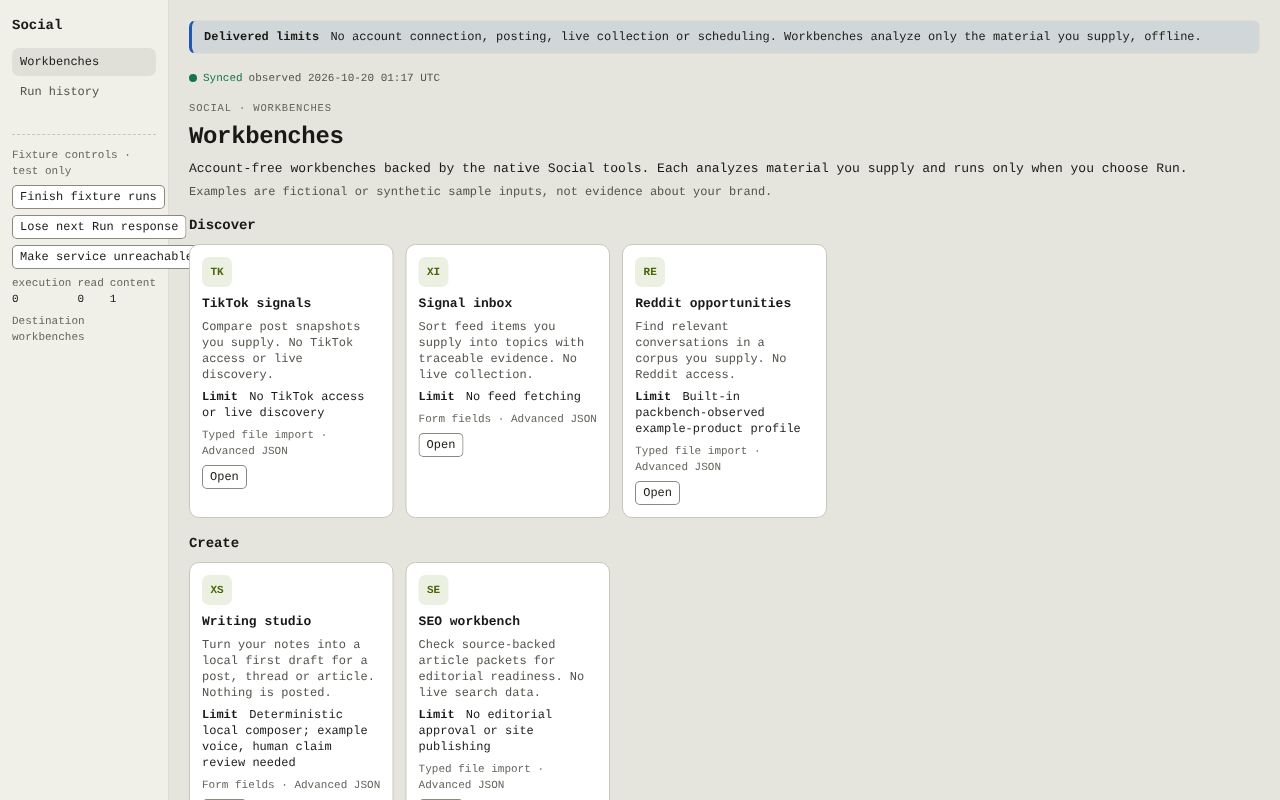
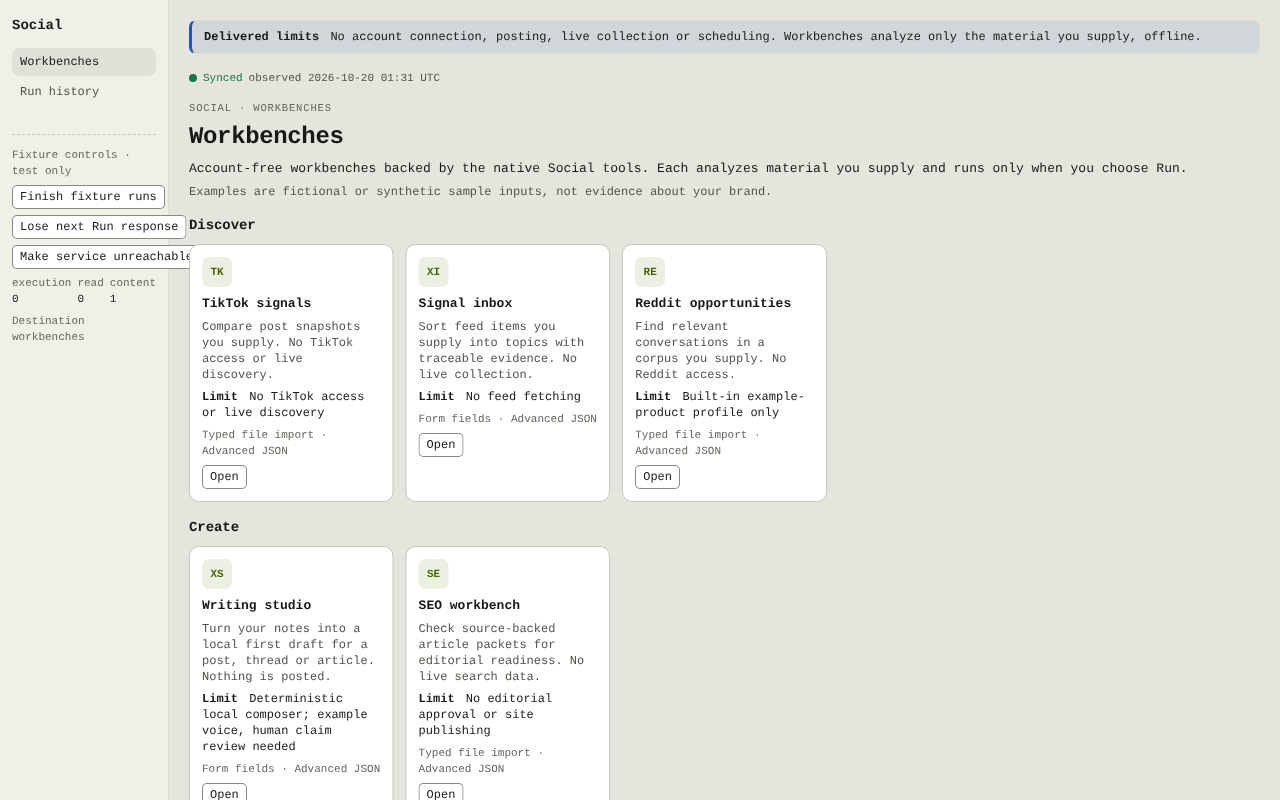
fix(social): public-safe Reddit profile wording; reconcile workbench evidence (SOC-W)
Replace the internal profile identifier with neutral wording that keeps
the limitation, re-capture the two affected catalog screenshots under the
same CSP, record root-accepted working decisions, correct the D2/D3
labels and record the SOC-C content dependency merge and fresh checks.

Task: spec.hq-social-work#task.social-workbench.001

Changed region(s): [[0.125, 0.5, 0.6562, 1.0], [0.5938, 0.4688, 0.625, 0.5]]

diff --git a/modules/social/workbench/fixtures/examples.ts b/modules/social/workbench/fixtures/examples.ts
@@ -80,7 +80,7 @@ export const WORKBENCH_OUTPUTS: { readonly [T in ToolId]: Record<string, unknown
   'tiktok-intelligence': { ok: true, result: { niche: 'Fictional tea rituals', as_of: '2026-10-01T12:00:00Z', posts: [{ post_id: 'fixture-post-1' }, { post_id: 'fixture-post-2' }], qualifications: ['Supplied snapshots only.'] } },
   'seo-studio': { ok: true, result: { ok: false, packets: [{ slug: 'steeping-guide', findings: ['Needs a second source.'] }] } },
   'search-visibility': { ok: true, result: { queries: 1, citations: [{ url: 'https://example.invalid/steeping', count: 1 }], coverage: 1 } },
-  'reddit-opportunities': { ok: true, result: { import: { posts: 1 }, analysis: { opportunities: [{ id: 'fixture-post-1', score: 0.7 }] }, profile: 'packbench-observed (built-in example product; rankings apply to that profile)' } },
+  'reddit-opportunities': { ok: true, result: { import: { posts: 1 }, analysis: { opportunities: [{ id: 'fixture-post-1', score: 0.7 }] }, profile: 'example-product (illustrative built-in profile; rankings apply to that profile)' } },
   'creator-relationships': {
     ok: true,
     result: {

diff --git a/modules/social/workbench/test/results.test.ts b/modules/social/workbench/test/results.test.ts
@@ -32,7 +32,7 @@ describe('tool-specific result summaries', () => {
 
     expect(summarizeRun(finished('x-intelligence', WORKBENCH_OUTPUTS['x-intelligence']))!.facts).toEqual([{ label: 'items', value: '2' }, { label: 'evidence', value: '2' }]);
     expect(summarizeRun(finished('seo-studio', WORKBENCH_OUTPUTS['seo-studio']))!.heading).toBe('Some article packets need attention');
-    expect(summarizeRun(finished('reddit-opportunities', WORKBENCH_OUTPUTS['reddit-opportunities']))!.notices[0]).toMatch(/packbench-observed/u);
+    expect(summarizeRun(finished('reddit-opportunities', WORKBENCH_OUTPUTS['reddit-opportunities']))!.notices[0]).toBe('example-product (illustrative built-in profile; rankings apply to that profile)');
   });
 
   it('maps Channel preview rule IDs to the delivered wording', () => {

diff --git a/modules/social/workbench/catalog.ts b/modules/social/workbench/catalog.ts
@@ -47,8 +47,8 @@ export const TOOL_GUIDES: { readonly [T in ToolId]: ToolGuide } = {
   },
   'reddit-opportunities': {
     id: 'reddit-opportunities', input: 'import',
-    recipe: 'Analyze an imported corpus', limit: 'Built-in packbench-observed example-product profile',
-    notices: ['Scores against the built-in packbench-observed example product profile. Custom product profiles exist only in the native tool.'],
+    recipe: 'Analyze an imported corpus', limit: 'Built-in example-product profile only',
+    notices: ['Scores against the built-in example product profile. Custom product profiles exist only in the native tool.'],
   },
   'creator-relationships': {
     id: 'creator-relationships', input: 'import', notices: [],

diff --git a/docs/evidence/hq-social-work/social-workbench/README.md b/docs/evidence/hq-social-work/social-workbench/README.md
@@ -9,7 +9,8 @@ Authority effect: none. This is the lane evidence for `spec.hq-social-work#ac.so
 | Branch | `work/hq-social-workbench`, an isolated linked worktree with one Git owner (this lane) |
 | Start | `83dafc50ef9e4e1b296baf2f1f9ad2d6b3115f04`: the accepted SOC-C core, head of `work/hq-social-content` |
 | UI dependency | The accepted UI kit `935dedf78e04a2697bdc02d85864546948ffcb8c` was merged as `d3fe415849bbf227a9c24c9fdc4b8db1ed748b35`, with no conflict, rebase or force. R1 `cfdab37` is an ancestor of both parents. |
-| PR base | `work/hq-social-content`, verified at publication as `5f5df2a7c3881091a6d038be32fdee5ab23ef5e2`. That is SOC-C's content commit on top of its own merge (`3bc79e1`) of the same UI commit `935dedf`. Both `83dafc5` and `935dedf` are ancestors of it. Since `83dafc5`, the base adds only `modules/social/content/**`, its evidence and the UI kit, so none of it touches `core`, this module, manifests or configuration. It was not merged here; that merge was not authorized. |
+| PR base | `work/hq-social-content` at `5f5df2a7c3881091a6d038be32fdee5ab23ef5e2`. That is SOC-C's content commit on top of its own merge (`3bc79e1`) of the same UI commit `935dedf`. |
+| Content dependency | At root's direction, the accepted SOC-C content commit `5f5df2a` was merged normally, once, as `17351d0f275d4fd940d349bb9a0b2e4c7fbf9ec4`. Its parents are `ae5e0e43441045d7061f76a27bc62b3ba9a587c9` (the first published candidate) and `5f5df2a`. The merge had no conflict and needed no manual resolution. Verified after the merge: <br>• the tree differs from `5f5df2a` only by this lane's 43 added files; <br>• `modules/social/core` equals `83dafc5`; <br>• `packages/hq-ui` and the UI evidence equal `935dedf`; <br>• SOC-C's content and evidence equal `5f5df2a`. <br>This resolves the add/add conflict GitHub reported against its single merge base. |
 | Plan | `spec.hq-social-work` read at `cfdab378e2…`; it is byte-identical to the working copy. Sections read: `task.social-workbench.001`, `ac.social-workbench.001` and `test.social-workbench.001`, plus `ctx.launch-preflight.001`, `ctx.change-surface.001`, `ctx.stop-recovery-delivery.001`, `ctx.check-catalog.001`, `ctx.test-plan.001`, `iface.social-port.001`, `iface.ui-kit.001`, `iface.references.001`, `iface.service-reference-extensions.001`, `req.social-research.001`, `req.safety.001` and `req.references.001`. |
 | Codex V3 guidance | Root `AGENTS.md` at commit `4beb491c44…`: blob `3402719bc3…`, 30,716 bytes, SHA-256 `1238a90adb…87ce6`, all verified. Triggered guides applied: CPU telemetry, section reading and delivery. The builder profile is prompt-carried guidance only. |
 | HQ rules | Root `AGENTS.md`. There is no nested `AGENTS.md` on touched paths. `.agents/shared-guidance.md` is absent, so shared enrollment is unavailable; nothing was installed. |
@@ -31,7 +32,7 @@ Navigation, nav and the domain descriptor stay with SOC-C, and no core file was 
 
 | Area | Files | Behavior |
 | --- | --- | --- |
-| Catalog | `catalog.ts`, `Catalog.tsx` | Groups the eight tools by category, following the core's tool list. Shows each tool's delivered limit verbatim, its input kind and the banner "No account connection, posting, live collection or scheduling". |
+| Catalog | `catalog.ts`, `Catalog.tsx` | Groups the eight tools by category, following the core's tool list. Shows each tool's delivered limit, its input kind and the banner "No account connection, posting, live collection or scheduling". |
 | Inputs | `inputs.ts`, `imports.ts`, `fields.tsx`, `ToolForms.tsx` | Each tool has a form-first builder for the exact native input object, with typed JSON or JSON Lines file import, shape previews that never echo values, and Advanced JSON. A JSON value converts back to the form only when the form can represent it unchanged. |
 | Run | `state.ts`, `ToolWorkbench.tsx` | `runTool` is the only submit path: one `submitRunOnce` per explicit Run, with double submits guarded. A loaded example is sent byte-for-byte with `is_example` set. Once edited, it is sent as supplied input. |
 | Unknown outcome | `UnknownOutcome.tsx` | Lists `possibleRunMatches` without claiming any of them, and "Check run history again" only reads. "Run again…" after an unknown outcome needs a confirmation. |
@@ -54,7 +55,7 @@ Nothing under `data/` and no database, backup, credential or record was read. No
 
 - **Mirrored as interface facts:**
   - each worker's top-level input keys, the defaults it applies, its limits and its `{ok, result}` envelope;
-  - the delivered limit text and recipe wording;
+  - the delivered limit text and recipe wording. The exception is the Reddit opportunities limit and notice: root replaced an internal profile identifier there with neutral public wording that keeps the same limitation ("Built-in example-product profile only");
   - the rule-status wording of Channel preview.
 - **Authored here:** every example, every output and all copy beyond those strings.
 
@@ -76,21 +77,32 @@ Nothing under `data/` and no database, backup, credential or record was read. No
 3. **The citation's `returnDestination` is `library`.** A new draft has no ID before it is saved. `sourceRevision` is the run's as-of date: `finished_at`, otherwise `created_at`.
 4. **Writing studio drafts default to channel X.** This is the delivered behavior. Other tools default to General, with a source line.
 5. **Short run IDs show the trailing eight characters.** The leading characters are identical across the core fixture's sequential IDs. For random native IDs either end is equally distinct.
-6. **Proposed, not delivered:** `links` on a draft (`hq-references-v1`) is the proposed service extension from `iface.service-reference-extensions.001`. No other tool or feature is proposed.
+6. **Reddit opportunities wording.** The limit reads "Built-in example-product profile only". The notice reads "Scores against the built-in example product profile. Custom product profiles exist only in the native tool." The fictional result uses the illustrative profile `example-product`. Input keys, behavior and the limitation are unchanged.
+7. **Proposed, not delivered:** `links` on a draft (`hq-references-v1`) is the proposed service extension from `iface.service-reference-extensions.001`. No other tool or feature is proposed.
+
+**Working decisions.** Root accepted these for this fixture and source slice:
+
+- Advanced JSON warns rather than blocks, for parity with the delivered UI.
+- An edited example runs as supplied input (`is_example` false).
+- "Run again…" after an unknown outcome requires an explicit confirmation.
+- The citation's `returnDestination` is `library`, and its `sourceRevision` is the run's as-of date.
 
 ## Checks
 
-Local, on the exact candidate tree. Each run was admitted by fresh telemetry through `inspect-linux-system-telemetry`, and every reading allowed one serial test process. Nothing ran in parallel.
+Local, on the exact reconciled tree: merge `17351d0` plus the public-wording change. Each run was admitted by fresh telemetry through `inspect-linux-system-telemetry`, and every reading allowed one serial test process. Nothing ran in parallel.
 
-| Command | Telemetry before it | Result |
+| Command | Telemetry before it (2026-10-20 UTC) | Result |
 | --- | --- | --- |
-| `npx tsc -p modules/social/tsconfig.json --noEmit` | 2026-10-20T01:23:34Z, CPU 13.52%, 45.00 GiB available | Pass |
-| `npx vitest run modules/social` (literal `social-module` projection) | (same admission, serial) | Pass: 204 tests in 9 files, of which 73 tests in 5 files are this lane's |
-| `npm run typecheck` | 01:23:44Z, CPU 18.24% | Pass |
-| `npm test` | 01:23:45Z, CPU 1.26% | Pass: 278 tests in 19 files |
-| `npm run build` | 01:23:49Z, CPU 10.00% | Pass. It writes only the ignored `apps/desktop/dist*`. |
+| `npx tsc -p modules/social/tsconfig.json --noEmit` | 01:32:08Z, CPU 5.62%, 46.24 GiB available | Pass |
+| `npx vitest run modules/social` (literal `social-module` projection) | 01:32:08Z, CPU 15.46% | Pass: 246 tests in 11 files, now including SOC-C's merged content tests |
+| `npx vitest run modules/social/workbench` | 01:32:24Z, CPU 7.55% | Pass: 73 tests in 5 files (this lane) |
+| `npm run typecheck` | 01:32:12Z, CPU 10.62% | Pass |
+| `npm test` | 01:32:13Z, CPU 7.23% | Pass: 320 tests in 21 files |
+| `npm run build` | 01:32:17Z, CPU 35.02% | Pass. It writes only the ignored `apps/desktop/dist*`. |
 
-**Is the suite sensitive?** As a reversible mutation, `runTool` was made to submit again after an unknown outcome. Exactly one test then failed: "a lost response renders unknown with possible matches and never resubmits". The file was restored from its backup and compared byte-for-byte.
+The first candidate `ae5e0e4` passed the same commands at 01:23 UTC, before the merge: 204 tests (social), 278 (all), typecheck and build.
+
+**Is the suite sensitive?** On the first candidate, as a reversible mutation, `runTool` was made to submit again after an unknown outcome. Exactly one test then failed: "a lost response renders unknown with possible matches and never resubmits". The file was restored from its backup and compared byte-for-byte.
 
 **Process gap.** One intermediate `vitest` rerun during development, after a test-label fix, was not preceded by its own telemetry reading. The reading about 15 seconds earlier was CPU 12.15%.
 
@@ -115,13 +127,13 @@ Theme comes from `?theme=light|dark`, which sets `html[data-theme]`. It is not C
 
 | Capture | What it shows | Recorder (execution / read / content) | SHA-256 |
 | --- | --- | --- | --- |
[12 lines of base64/hex data omitted]
@@ -132,9 +144,13 @@ Read counts include the receipt's run reads while a run was active, plus Load ex
 
 **Build provenance.**
 
-- Captures 01–10 come from a harness build taken before the last CSS change; 11–12 from the final build.
-- The only change in between is an overflow guard (`.sw-workbench > * { min-width: 0 }` and wrapping chips), found by capture 11's first attempt.
-- Captures 01–10 have no overflow at the widths shown.
+- **Captures 02–06 and 08–10** were taken in the first publication pass, from a harness build that came before its last CSS change.
+- **Captures 11–12** come from that pass's final build (first candidate `ae5e0e4`).
+- **The only change between those two builds** is an overflow guard (`.sw-workbench > * { min-width: 0 }` and wrapping chips), found by capture 11's first attempt. Captures 02–10 have no overflow at the widths shown.
+- **Captures 01 and 07** were retaken on 2026-10-20 around 01:31 UTC, under the same exact CSP.
+  - They come from a fresh harness build of the reconciled tree: the merge `17351d0` plus the public Reddit wording, with script `index-CMif-e-G.js` and style `index-Di_-_wUk.css`.
+  - Only the Reddit limit text differs from the first pass.
+- **The other captures do not show the Reddit tool**, so the wording change does not affect them.
 
 **Harness.**
 
@@ -149,7 +165,9 @@ The listener was loopback-only and bounded by `timeout`. After capture, the prev
 
 - **Fonts.** On this Linux host `system-ui` measures identically to `monospace` (canvas widths 57.6 px for both `iiiiii` and `MMMMMM`). The captures therefore show a monospace fallback, not the intended sans. IBM Plex is not bundled (UI kit scope), so the captures are layout, state and color evidence, not typography evidence.
 - **Not exercised:** Electron launch, macOS and a screen reader. Real window visibility is covered only by DOM tests with an injected visibility source. Receipt download (`Blob` plus an object URL) is unverified in Electron.
-- **No live service.** Live endpoints and access, the bridge and IPC are unassigned (D3 is deferred). Only fixture adapters were used.
+- **No live service.** Only fixture adapters were used.
+  - Bridge and live-access gating is **D2**. Construction of the source bridge is selected, but verified real endpoints and access, and custody of contracts and IPC, are still held.
+  - Editable Planner structures are deferred as **D3**.
 - **CI.** No workflow is configured, so CI is unavailable, not green.
 
 ## Deferred findings
@@ -157,10 +175,4 @@ The listener was loopback-only and bounded by `timeout`. After capture, the prev
 1. **Core fixture IDs.** The core fixture's sequential run IDs share a long common prefix. SOC-C owns the fixture; this module works around it with trailing short IDs.
 2. **Kit chip wrapping.** The UI kit `StatusChip` is `white-space: nowrap`, so a long detail overflows narrow columns. This module passes a wrap class through `className`. A kit-level option is the kit owner's call.
 3. **No file-input primitive.** The UI kit has none, so file pickers use the native control.
-4. **Publication check.** The Reddit limit text is delivered wording copied verbatim and contains the internal term "packbench-observed". Root should confirm it is public-safe, or supply replacement wording.
-5. **Product decisions to confirm:**
-   - Advanced JSON warns rather than blocks;
-   - an edited example is sent as supplied input;
-   - "Run again…" requires confirmation after an unknown outcome;
-   - the citation uses `returnDestination: library` with the run date as `sourceRevision`.
-6. **Kit findings.** The kit's F1–F7 and deferred P2–P4 findings are unchanged, not fixed here.
+4. **Kit findings.** The kit's F1–F7 and deferred P2–P4 findings are unchanged, not fixed here.
